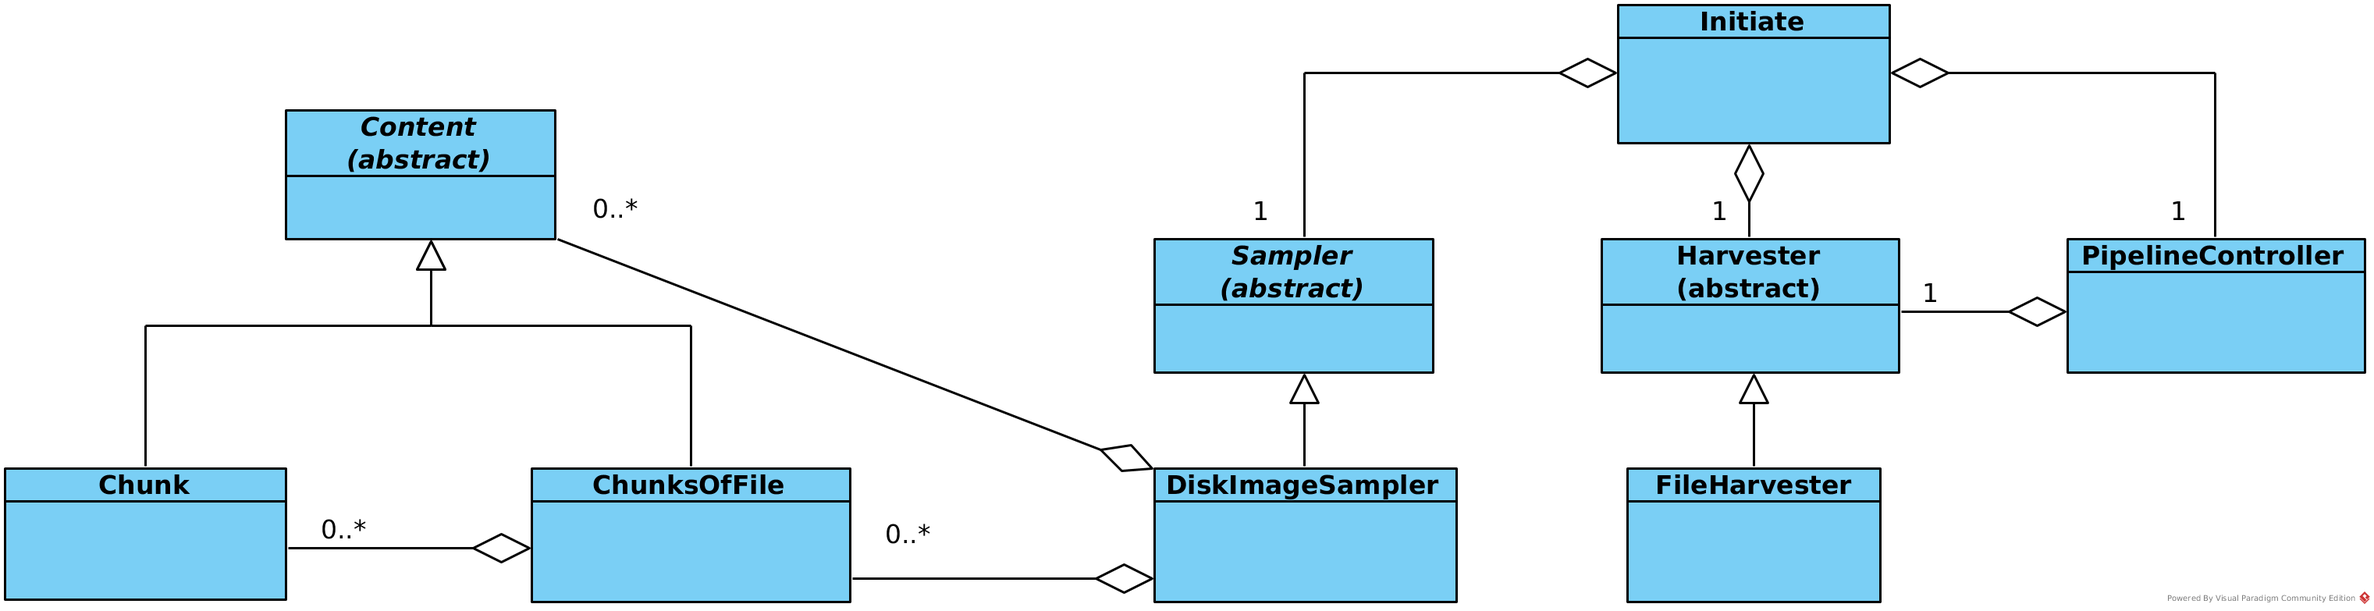
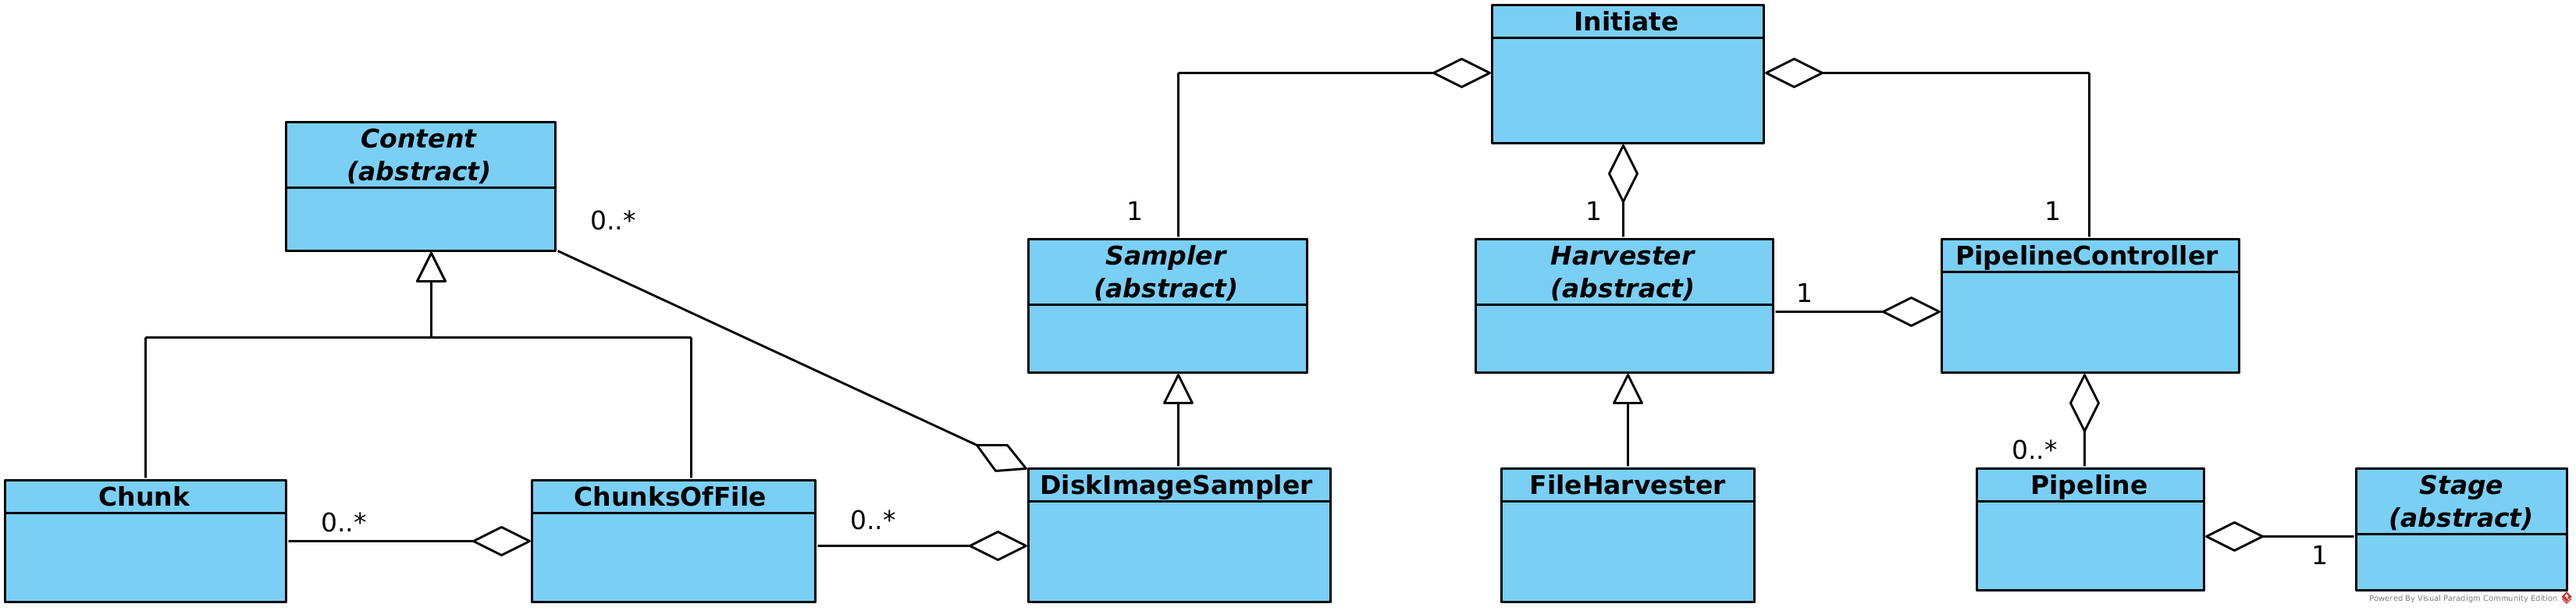
Extended README file

diff --git a/README.md b/README.md
@@ -18,7 +18,7 @@ pip install python-libmagic
 
 ## Deployment
 
-The purpose of this framework is to generate synthetic carving images that can be later examined by file carvers. One needs to select some input files which are then processed in pipelines. The processed file contents are stored on the disk. These can then be packed into a carving image.
+The purpose of this framework is to generate synthetic carving images that can be later examined by file carvers. One needs to select some input files which are then processed in pipelines. The processed file contents are stored on the disk. These can then be packed into a carving image. A text file (called *truth map*) is also generated which indicates a list of the file contents and their offsets inside the carving image.
 
 ### Main Components
 
@@ -45,9 +45,11 @@ The *Harvester* class is a component that searches a folder for data objects and
 
 #### PipelineController
 
-The *PipelineController* class is used to start the process of the pipelines.
+The *PipelineController* class is used to start the process of the pipelines. It knows the *Harvester* and all the necessary pipelines for the processing. It implements the producer-consumer pattern where the *Harvester* is the producer and the pipelines are the consumers. A pipeline can only process the files of one specific data type but all pipelines can work in parallel.
 
 #### Sampler
+
+The *Sampler* class is used to generate carving images out of the results of the pipeline processing. It is an abstract class but a concrete *DiskImageSampler* for generating disk images is already implemented. The *Sampler* also has a method for generating the *truth map* which is put into the same folder as the carving image.
 
 #### Stage
 
